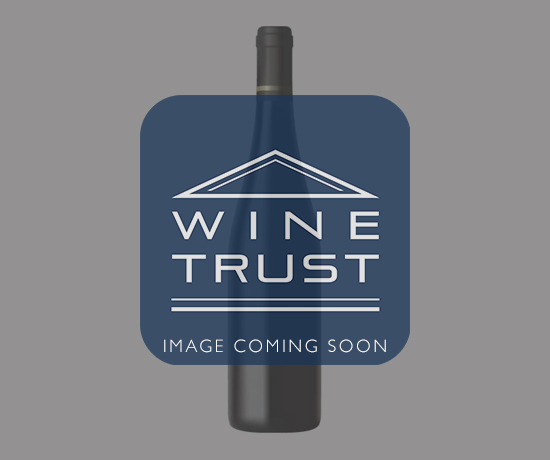
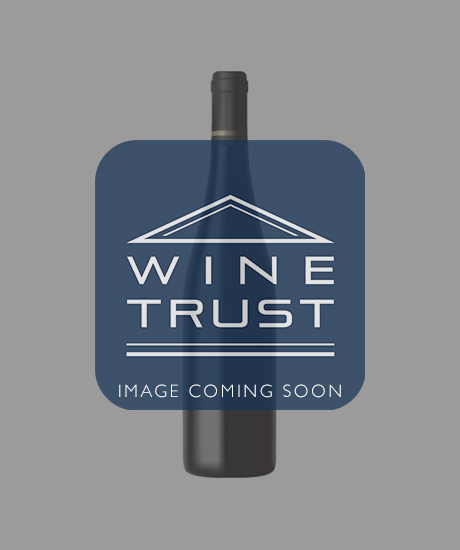
Fixed the issue of asset home and styles

Changed region(s): [[0.1826, 0.0304, 0.7913, 0.9435]]

diff --git a/src/components/AssetHome/AssetHome.tsx b/src/components/AssetHome/AssetHome.tsx
@@ -1,4 +1,4 @@
-import React, { useEffect, useState } from 'react'
+import React, { Fragment, useEffect, useState } from 'react'
 import Container from '@mui/material/Container'
 import { Box } from '@mui/material'
 import customStyles from './AssetHomeStyle'
@@ -18,7 +18,7 @@ const AssetHome = () => {
   const [isPdfLoading, setIsPdfLoading] = useState<boolean>(false)
   const [isDefaultImgShow, setIsDefaultImgShow] = useState<boolean>(false)
   const [assetImages, setImageSlider] = useState<any>([])
-  const { setLoading } = React.useContext(LoaderContext)
+  const { loading, setLoading } = React.useContext(LoaderContext)
   const navigate = useNavigate()
 
   let sliderImageKeyArr = [
@@ -90,122 +90,144 @@ const AssetHome = () => {
   }
   return (
     <div className={classes.root}>
-      <Container className="asset-container">
+      <Container className={loading ? 'asset-container loading' : 'asset-container'}>
         <ToastContainer />
-        <Box className="flex section-padding" paddingTop={'75px !important'}>
-          <div className="img-outer">
-            {assetData?.product?.labelImage ? (
-              <img
-                src={`${process.env.REACT_APP_PINATA}${assetData?.product?.labelImage}`}
-                onError={({ currentTarget }) => {
-                  setFallbackImg(currentTarget, '/images/assetImg.jpeg')
-                }}
-                alt="asset home label"
-                height="345px"
-                width="100%"
-              />
-            ) : (
-              <img src="/images/assetImg.jpeg" alt="asset home label" height="345px" width="100%" />
-            )}
-          </div>
-          <Box className="asset-spec-wrapper">
-            <h2 className="text-align-center mr-t-0">{assetData?.product?.longName}</h2>
-            <Box>
-              <p>Producer</p>
-              <p>Chateau Lafite Rothschild</p>
-            </Box>
-            <Box>
-              <p>Year</p>
-              <p>{assetData?.product?.year}</p>
-            </Box>
-            <Box>
-              <p>Pack Size</p>
-              <p>{assetData?.product?.packSize}</p>
-            </Box>
-            <Box>
-              <p>Region</p>
-              <p>{assetData?.product?.region}</p>
-            </Box>
-            {assetData?.product?.subRegion ? (
-              <Box>
-                <p>Sub Region</p>
-                <p>{assetData?.product?.subRegion}</p>
+        {assetData &&
+        Object.keys(assetData).length > 0 &&
+        Object.getPrototypeOf(assetData) === Object.prototype ? (
+          <Fragment>
+            <Box className="flex section-padding" paddingTop={'75px !important'}>
+              <div className="img-outer">
+                {assetData?.product?.labelImage ? (
+                  <img
+                    src={`${process.env.REACT_APP_PINATA}${assetData?.product?.labelImage}`}
+                    onError={({ currentTarget }) => {
+                      setFallbackImg(currentTarget, '/images/assetImg.jpeg')
+                    }}
+                    style={{ maxHeight: '450px' }}
+                    alt="asset home label"
+                  />
+                ) : (
+                  <img
+                    src="/images/assetImg.jpeg"
+                    alt="asset home label"
+                    height="345px"
+                    width="100%"
+                  />
+                )}
+              </div>
+              <Box className="asset-spec-wrapper">
+                <h2 className="text-align-center mr-t-0">{assetData?.product?.longName}</h2>
+                <Box>
+                  <p>Producer</p>
+                  <p>Chateau Lafite Rothschild</p>
+                </Box>
+                <Box>
+                  <p>Year</p>
+                  <p>{assetData?.product?.year}</p>
+                </Box>
+                <Box>
+                  <p>Pack Size</p>
+                  <p>{assetData?.product?.packSize}</p>
+                </Box>
+                {assetData?.product?.country ? (
+                  <Box>
+                    <p>Country</p>
+                    <p>{assetData?.product?.country}</p>
+                  </Box>
+                ) : (
+                  ''
+                )}
+                <Box>
+                  <p>Region</p>
+                  <p>{assetData?.product?.region}</p>
+                </Box>
+                {assetData?.product?.subRegion ? (
+                  <Box>
+                    <p>Sub Region</p>
+                    <p>{assetData?.product?.subRegion}</p>
+                  </Box>
+                ) : (
+                  ''
+                )}
+                {assetData?.product?.subSubRegion ? (
+                  <Box>
+                    <p>Sub Sub Region</p>
+                    <p>{assetData?.product?.subSubRegion}</p>
+                  </Box>
+                ) : (
+                  ''
+                )}
               </Box>
-            ) : (
-              ''
-            )}
-            {assetData?.product?.subSubRegion ? (
-              <Box>
-                <p>Sub Sub Region</p>
-                <p>{assetData?.product?.subSubRegion}</p>
+            </Box>
+            <Box className="section-border flex section-padding">
+              <div className="img-outer">
+                {isPdfLoading ? (
+                  <iframe
+                    title="asset condition report image"
+                    src={`${process.env.REACT_APP_PINATA}${assetData?.initialConditionReport}`}
+                    height="100%"
+                    width="100%"
+                    style={{ minHeight: '450px' }}
+                    onError={() => {
+                      setIsDefaultImgShow(true)
+                    }}
+                  />
+                ) : (
+                  ''
+                )}
+                {assetData?.initialConditionReport && !isPdfLoading ? (
+                  <img
+                    src={`${process.env.REACT_APP_PINATA}${assetData?.initialConditionReport}`}
+                    alt="asset home bottle img"
+                    //onError={({ currentTarget }) => setFallbackImg(currentTarget, '/images/wine.png')}
+                    onError={() => setIsPdfLoading(true)}
+                    width="100%"
+                  />
+                ) : isDefaultImgShow || !('initialConditionReport' in assetData) ? (
+                  <img src="/images/assetImg.jpeg" alt="asset home bottle img" width="100%" />
+                ) : (
+                  ''
+                )}
+              </div>
+              <Box className="asset-spec-wrapper">
+                <Box className="asset-desc">{assetData?.product?.description}</Box>
+                <Box>
+                  <p>Producer</p>
+                  <p>Chateau Lafite Rothschild</p>
+                </Box>
+                <Box>
+                  <p>Asset Id</p>
+                  <p>{assetData.assetId ?? assetData._id}</p>
+                </Box>
+                <Box>
+                  <p>Custodian</p>
+                  <p>WineTrust</p>
+                </Box>
+                <Box>
+                  <p>Date minted</p>
+                  <p>
+                    {assetData?.tokenizedAt ? new Date(assetData?.tokenisedAt).toDateString() : '-'}
+                  </p>
+                </Box>
+                <Box>
+                  <p>Warehouse location</p>
+                  <p>{assetData?.preAdvice?.arrivalWarehouse.name}</p>
+                </Box>
+                <Box>
+                  <p>Date entered warehouse</p>
+                  <p>{assetData?.landedAt ? new Date(assetData?.landedAt).toDateString() : '-'}</p>
+                </Box>
+                <Box>
+                  <p>Warehouse ID number</p>
+                  <p>{assetData?.warehouseLocationNo}</p>
+                </Box>
               </Box>
-            ) : (
-              ''
-            )}
-          </Box>
-        </Box>
-        <Box className="section-border flex section-padding">
-          <div className="img-outer">
-            {isPdfLoading ? (
-              <iframe
-                title="asset condition report image"
-                src={`${process.env.REACT_APP_PINATA}${assetData?.initialConditionReport}`}
-                height="100%"
-                width="100%"
-                onError={() => {
-                  setIsDefaultImgShow(true)
-                }}
-              />
-            ) : (
-              ''
-            )}
-            {assetData?.initialConditionReport && !isPdfLoading ? (
-              <img
-                src={`${process.env.REACT_APP_PINATA}${assetData?.initialConditionReport}`}
-                alt="asset home bottle img"
-                //onError={({ currentTarget }) => setFallbackImg(currentTarget, '/images/wine.png')}
-                onError={() => setIsPdfLoading(true)}
-                width="100%"
-              />
-            ) : isDefaultImgShow || !('initialConditionReport' in assetData) ? (
-              <img src="/images/assetImg.jpeg" alt="asset home bottle img" width="100%" />
-            ) : (
-              ''
-            )}
-          </div>
-
-          <Box className="asset-spec-wrapper">
-            <Box className="asset-desc">{assetData?.product?.description}</Box>
-            <Box>
-              <p>Producer</p>
-              <p>Chateau Lafite Rothschild</p>
             </Box>
-            <Box>
-              <p>Asset Id</p>
-              <p>{assetData.assetId ?? assetData._id}</p>
-            </Box>
-            <Box>
-              <p>Custodian</p>
-              <p>WineTrust</p>
-            </Box>
-            <Box>
-              <p>Date minted</p>
-              <p>15 January 2022</p>
-            </Box>
-            <Box>
-              <p>Warehouse location</p>
-              <p>{assetData?.preAdvice?.arrivalWarehouse.name}</p>
-            </Box>
-            <Box>
-              <p>Date entered warehouse</p>
-              <p>12 November 2021</p>
-            </Box>
-            <Box>
-              <p>Warehouse ID number</p>
-              <p>{assetData?.warehouseLocationNo}</p>
-            </Box>
-          </Box>
-        </Box>
+          </Fragment>
+        ) : (
+          ''
+        )}
         {assetImages.length > 0 ? (
           <Box className="section-border section-padding">
             <h2 className="mr-t-0">Asset Images (photos of the exact asset):</h2>
@@ -220,7 +242,7 @@ const AssetHome = () => {
                     src={item.image}
                     alt={'Condition Report'}
                     className="carousel-img"
-                    height="400px"
+                    height="350px"
                   />
                 ))}
               </StyledCarousel>

diff --git a/src/components/AssetHome/AssetHomeStyle.ts b/src/components/AssetHome/AssetHomeStyle.ts
@@ -7,6 +7,9 @@ const customStyles = makeStyles(theme => {
         paddingTop: '100px',
         paddingBottom: '100px'
       },
+      '& .asset-container.loading': {
+        paddingTop: 'calc(100vh - 415px)'
+      },
       '& .asset-spec-wrapper': {
         '& .MuiBox-root': {
           display: 'flex',
@@ -41,17 +44,22 @@ const customStyles = makeStyles(theme => {
       },
       '& .carousel-img': {
         [theme.breakpoints.between('xs', 470)]: {
-          width: '100%'
+          maxWidth: '100%'
         },
-        width: '92%'
+        marginLeft: 'auto',
+        marginRight: 'auto',
+        display: 'block',
+        maxWidth: '92%'
       },
       '& .img-outer': {
         width: '40%',
         textAlign: 'center',
-        height: '552px',
+        maxHeight: '450px',
         marginBottom: '38px',
         '& img': {
-          height: '100%'
+          maxHeight: '100%',
+          maxWidth: '100%',
+          paddingTop: '10px'
         },
         [theme.breakpoints.between('xs', 'sm')]: {
           width: '100%'
